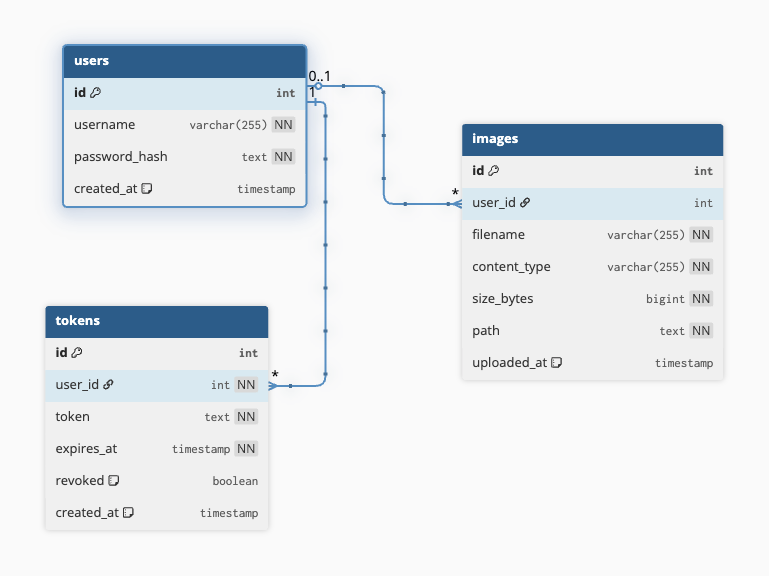
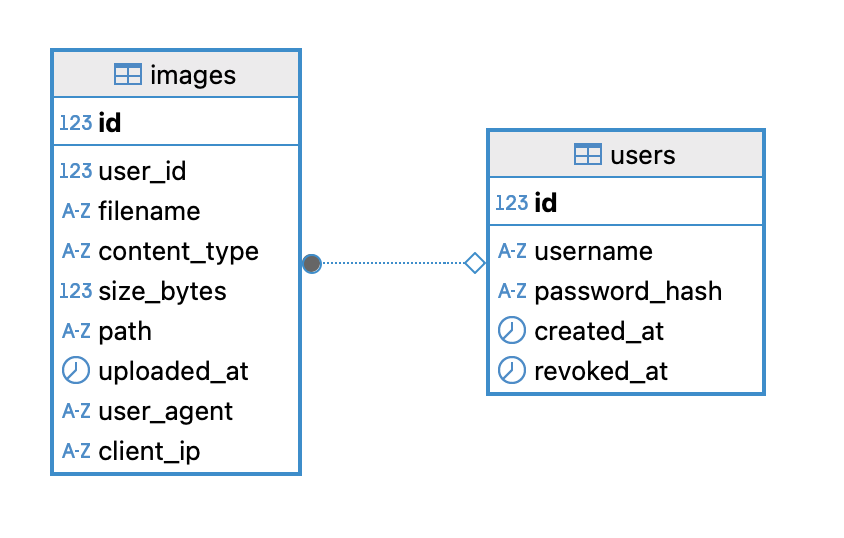
update readme

Changed region(s): [[0.0312, 0.0595, 0.4993, 0.9219], [0.4993, 0.2082, 0.9675, 0.7435], [0.8427, 0.6245, 0.9363, 0.684]]

diff --git a/backend-hackathon/README.md b/backend-hackathon/README.md
@@ -1,219 +1,60 @@
 # Backend Hackathon - Go Clean Architecture
 
-A clean architecture implementation using Gin framework, GORM, and PostgreSQL.
+## Quick Overview
 
-## Project Structure
+- Stack: Go (Gin), GORM, PostgreSQL.
+- Prerequisites: Go 1.23.x, Docker Desktop (Compose v2), golang-migrate CLI.
+- API base: `http://localhost:8080`.
+- Swagger UI: `http://localhost:8080/swagger/index.html` (sources: `docs/swagger.yaml`, `docs/swagger.json`; regenerate with `make swagger`).
 
-```
-backend-hackathon/
-├── cmd/
-│   └── api/              # Application entry point
-│       └── main.go
-├── internal/
-│   ├── config/           # Configuration management
-│   ├── domain/           # Domain entities
-│   ├── handler/          # HTTP handlers (presentation layer)
-│   ├── middleware/       # HTTP middlewares
-│   ├── repository/       # Data access layer
-│   └── usecase/          # Business logic layer
-├── migrations/           # Database migrations
-├── docker-compose.yml    # Docker compose for PostgreSQL
-├── Makefile             # Make commands for project tasks
-└── go.mod               # Go module file
-```
+## Start
 
-## Architecture Layers
-
-- **Domain**: Core business entities
-- **Repository**: Data access layer (GORM)
-- **Usecase**: Business logic layer
-- **Handler**: HTTP handlers (Gin)
-- **Middleware**: Cross-cutting concerns (auth, logging, etc.)
-
-## Prerequisites
-
-- Go 1.21 or higher
-- Docker and Docker Compose
-- Make (optional but recommended)
-
-## Getting Started
-
-### 1. Install Dependencies
-
-```bash
-make install
-# or
-go mod download
-```
-
-### 2. Start Database
-
-```bash
-make start
-# or
-docker-compose up -d
-```
-
-This will start a PostgreSQL container on port 5432.
-
-### 3. Run Migrations
-
-```bash
-make migrate-up
-```
-
-Alternatively, you can use the helper script:
-
-```bash
-# Show current version
-./scripts/migrate.sh version
-
-# Run all migrations up
-./scripts/migrate.sh up
-
-# Create a new migration
-./scripts/migrate.sh create add_new_table
-
-# Rollback all migrations
-./scripts/migrate.sh down
-```
-
-### 4. Run the Application
-
-```bash
-make run
-# or
-go run cmd/api/main.go
-```
-
-The server will start on port 8080.
-
-## Available Commands
-
-```bash
-# Database management
-make start              # Start PostgreSQL container
-make stop              # Stop PostgreSQL container
-make restart           # Restart PostgreSQL container
-make clean             # Remove containers and volumes
-
-# Migrations
-make migrate-up        # Run all migrations
-make migrate-down      # Rollback all migrations
-make migrate-version   # Show current migration version
-make migrate-create NAME=create_table  # Create new migration
-
-# Application
-make install           # Install Go dependencies
-make build            # Build the application
-make run              # Run the application
-make test             # Run tests
-```
+- Change to project: `cd backend-hackathon`
+- Setup env: `cp env.example .env`
+  - Edit `.env` if needed (DB host, port, user, password, JWT settings).
+  - Without `.env`, sensible defaults are used; you can override via shell, e.g. `export DB_HOST=localhost`.
+- Start database: `make start`
+  - Requires Docker Desktop running.
+  - Postgres listens on `localhost:5432` (`postgres/postgres`, DB `hackathon_db`).
+  - Stop with `make stop`, clean volumes with `make clean`.
+- Run migrations: `make migrate-up`
+  - Requires `golang-migrate` CLI installed.
+  - If it fails, confirm Postgres is up (`docker ps`) and `DB_URL` matches your setup.
+- Start API: `make run`
+  - Server runs at `http://localhost:8080`.
+  - Health check: `curl http://localhost:8080/ping` (should return OK JSON).
+  - Swagger UI: open `http://localhost:8080/swagger/index.html`.
 
 ## API Endpoints
 
-### Health Check
-- `GET /ping` - Check server status
+- `GET /ping` — Health check
+- `POST /api/v1/auth/register` — Register user
+- `POST /api/v1/auth/login` — Obtain JWT access token
+- `POST /api/v1/auth/logout` — Logout (requires Bearer token)
+- `GET /api/v1/ping-auth` — Authenticated ping (requires Bearer token)
+- `GET /api/v1/resource/images` — List images for the authenticated user
+- `POST /api/v1/upload` — Upload image (multipart/form-data; field `file`, legacy fallback `data`; accepts `image/*`, ≤ 8MB)
 
-### Users
-- `GET /api/v1/users` - Get all users
-- `GET /api/v1/users/:id` - Get user by ID
-- `POST /api/v1/users` - Create user
-- `PUT /api/v1/users/:id` - Update user
-- `DELETE /api/v1/users/:id` - Delete user
+## Swagger
+
+- View UI: `http://localhost:8080/swagger/index.html`
+- Regenerate: `make swagger` (requires `swag` on PATH)
+- Sources: `docs/swagger.yaml`, `docs/swagger.json`, generated `docs.go`
 
 ## Configuration
 
-Environment variables can be set in `.env` file (create from `.env.example`):
+Set via `.env` (copy from `env.example`):
+- `SERVER_PORT` (default: 8080)
+- `DB_HOST` (default: localhost)
+- `DB_PORT` (default: 5432)
+- `DB_USER` (default: postgres)
+- `DB_PASSWORD` (default: postgres)
+- `DB_NAME` (default: hackathon_db)
+- `DB_SSL_MODE` (default: disable)
+- `JWT_SECRET`, `JWT_ISSUER`, `ACCESS_TOKEN_TTL`
 
-- `SERVER_PORT`: Server port (default: 8080)
-- `DB_HOST`: Database host (default: localhost)
-- `DB_PORT`: Database port (default: 5432)
-- `DB_USER`: Database user (default: postgres)
-- `DB_PASSWORD`: Database password (default: postgres)
-- `DB_NAME`: Database name (default: hackathon_db)
-- `DB_SSL_MODE`: SSL mode (default: disable)
+## Useful Commands
 
-## Database Schema
-
-### Overview
-
-The database consists of three main tables:
-
-![Database Schema](docs/db/db_schema.png)
-
-### Tables
-
-#### Users Table
-```sql
-CREATE TABLE users (
-    id SERIAL PRIMARY KEY,
-    username VARCHAR(255) UNIQUE NOT NULL,
-    password_hash TEXT NOT NULL,
-    created_at TIMESTAMP DEFAULT NOW(),
-    revoked_at TIMESTAMP NULL
-);
-```
-
-Tokens table đã được loại bỏ trong thiết kế hiện tại (JWT stateless + revoke theo thời điểm bằng `users.revoked_at`).
-
-#### Images Table
-```sql
-CREATE TABLE images (
-    id SERIAL PRIMARY KEY,
-    user_id INT REFERENCES users(id) ON DELETE SET NULL,
-    filename VARCHAR(255) NOT NULL,
-    content_type VARCHAR(255) NOT NULL,
-    size_bytes BIGINT NOT NULL,
-    path TEXT NOT NULL,
-    uploaded_at TIMESTAMP DEFAULT NOW()
-);
-```
-
-### Relationships
-
-- **users → images**: One-to-Many (One user can have many images)
-
-## Authentication Middleware
-
-The authentication middleware is initialized but not yet implemented. To implement authentication:
-
-1. Edit `internal/middleware/auth.go`
-2. Add your authentication logic (JWT, session, etc.)
-3. Apply the middleware to protected routes in `cmd/api/main.go`
-
-## Development
-
-### Adding a New Feature
-
-1. Create domain entity in `internal/domain/`
-2. Create repository in `internal/repository/`
-3. Create usecase in `internal/usecase/`
-4. Create handler in `internal/handler/`
-5. Register routes in `cmd/api/main.go`
-
-### Running Tests
-
-```bash
-make test
-```
-
-## License
-
-MIT
-## Migration Helper Script
-
-For convenience, a wrapper script is available at `scripts/migrate.sh`.
-
-Environment overrides:
-- `DB_URL` (default: `postgres://postgres:postgres@localhost:5432/hackathon_db?sslmode=disable`)
-- `MIGRATIONS_DIR` (default: `migrations`)
-
-Examples:
-
-```bash
-./scripts/migrate.sh up
-./scripts/migrate.sh create add_http_metadata_to_images
-./scripts/migrate.sh down
-```
-
+- DB lifecycle: `make start`, `make stop`, `make restart`, `make clean`
+- Migrations: `make migrate-up`, `make migrate-down`, `make migrate-version`, `make migrate-create NAME=...`
+- App lifecycle: `make install`, `make build`, `make run`, `make test`

diff --git a/README.md b/README.md
@@ -1,5 +1,13 @@
 # elotus-code-challenges
 
+Monorepo containing three parts: DSA challenges, a backend API, and a frontend demo.
+
+## Repository Overview
+
+- `dsa-challenges/`: Solutions for three DSA problems (Gray Code, Maximum Length of Repeated Subarray, Sum of Distances in Tree). Each challenge contains a `main.go` entry; run with `go run main.go` inside its folder.
+- `backend-hackathon/`: Backend API built for the hackathon requirements. Includes a Gin server, PostgreSQL via Docker Compose, database migrations, and Swagger documentation.
+- `front-end-demo/`: Next.js app demonstrating login, register, and file upload using the backend API.
+
 Quickstart to run the backend API and the frontend demo locally, then try the upload flow.
 
 ## Prerequisites
